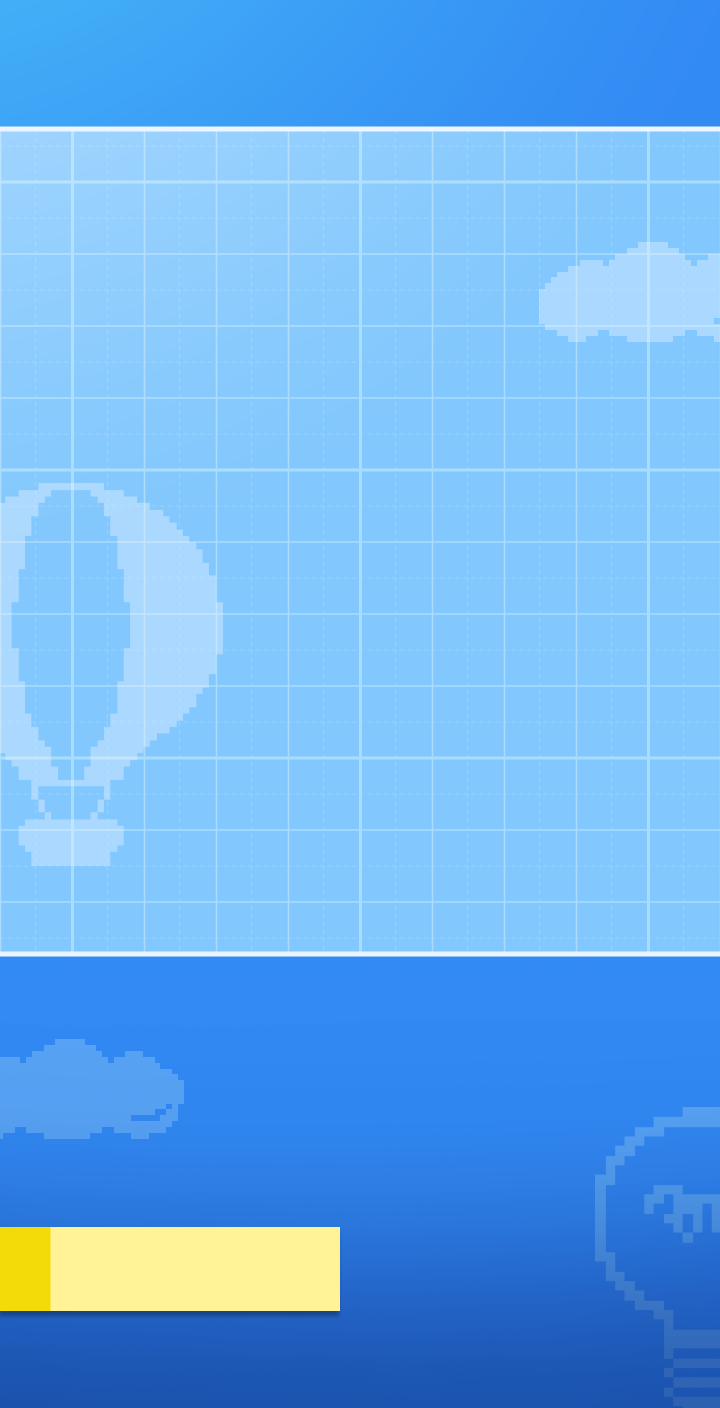
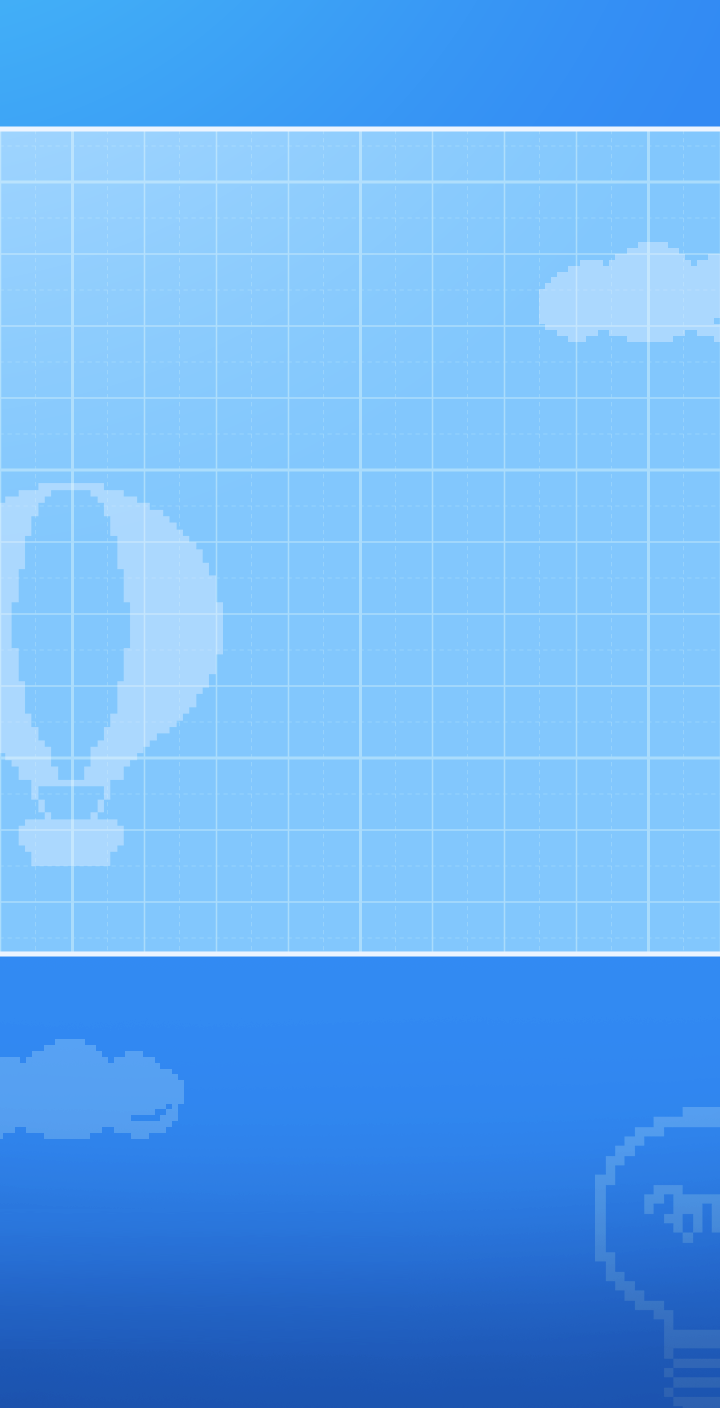
ゲーム画面開発途中

Changed region(s): [[0.0, 0.8438, 0.4889, 0.9375]]

diff --git a/src/Machigai/GameBundle/Resources/public/js/game/src/BaseLayer.js b/src/Machigai/GameBundle/Resources/public/js/game/src/BaseLayer.js
@@ -75,10 +75,10 @@ var BaseLayer = cc.Layer.extend({
             this.clock = this.playInfo.clock;
             this.addChild(this.clock,15);
 
-            this.slider = new Slider(1.0, 3.0);
-            this.addChild(this.slider,18);
+//            this.slider = new Slider(1.0, 3.0);
+//            this.addChild(this.slider,18);
 
-            this.initMenu();
+//			this.initMenu();
 
 			var thr = this.HEIGHT - this.getContentSize().height;
 			this.setPositionY(-thr);
@@ -86,7 +86,22 @@ var BaseLayer = cc.Layer.extend({
             bRet = true;
 
 			// マーキーの表示
+/*			
 			this.dispTitle();
+*/
+
+			// メニューボタン
+			var mainMenu = cc.MenuItemImage.create(
+				bd+"res/game_scene/button/button_game_link_url.png",
+				bd+"res/game_scene/button/button_game_link_url.png",
+				this.menuCallBack.bind(this)
+			);
+			mainMenu.name = "MAIN_MENU";
+			mainMenu.setPosition(650, this.MACHIGAI_Y - 25);
+			this.menu = mainMenu;
+			var menu = cc.Menu.create([mainMenu]);
+			menu.setPosition(0,0);
+			this.addChild(menu);
         }
         return bRet;
     },
@@ -133,69 +148,7 @@ var BaseLayer = cc.Layer.extend({
         this.stars = new Stars(self,this.playInfo.MACHIGAI_LIMIT);
         this.hearts = new Hearts(self, this.playInfo.FAIL_LIMIT);
     },
-    initMenu:function(){
-        var popupHint = cc.MenuItemImage.create(
-            bd+"res/game_scene/button/game_icon_hint.png",
-            bd+"res/game_scene/button/game_icon_hint.png",
-            this.menuCallBack.bind(this)
-        );
-//        popupHint.setPosition(506, 50);
-        popupHint.setPosition(185, 259);
-		popupHint.setDisabledImage(
-				cc.Sprite.create(bd+"res/game_scene/button/game_icon_hint_gray.png"));
-        popupHint.name = "HINT";
-        if( this.playInfo._playData._isHintUsed)
-            popupHint.setEnabled(false);
-		this.popupHint = popupHint;
-
-        var popupSave = cc.MenuItemImage.create(
-            bd+"res/game_scene/button/game_icon_save.png",
-            bd+"res/game_scene/button/game_icon_save.png",
-            this.menuCallBack.bind(this)
-        );
-        popupSave.setPosition(360, 259);
-        popupSave.name = "SAVE";
-
-        var popupGiveup = cc.MenuItemImage.create(
-            bd+"res/game_scene/button/game_icon_giveup.png",
-            bd+"res/game_scene/button/game_icon_giveup.png",
-            this.menuCallBack.bind(this)
-        );
-        popupGiveup.setPosition(535, 259);
-        popupGiveup.name = "GIVEUP";
-
-        var qcode = this.playInfo.QCODE;
-        var level = this.playInfo.LEVEL;
-
-        var copyrightImage = cc.Sprite.create( bd+"../../../../../sync/game/file/"+level+"/"+qcode+"/copyright");
-        copyrightImage.setPosition(436, 138);
-        copyrightImage.name = "COPYRIGHT";
-
-        var popupLinkUrl = cc.MenuItemImage.create(
-            bd+"res/game_scene/button/button_game_link_url.png",
-            bd+"res/game_scene/button/button_game_link_url.png",
-            this.menuCallBack.bind(this)
-        );
-        popupLinkUrl.setPosition(601, 138);
-        popupLinkUrl.name = "LINKURL";
-        //copyrightImageがあるかどうかでlinkURLを表示するかどうかを判断する
-        var thisbl = this;
-
-        var a = setInterval(function(){
-            var isCopyrightImage = ( copyrightImage._contentSize._height !== 0 );
-            var menu = null;
-            if (isCopyrightImage){
-                menu = cc.Menu.create([popupHint,popupSave,popupGiveup,popupLinkUrl]);
-            }else{
-                menu = cc.Menu.create([popupHint,popupSave,popupGiveup]);
-            }
-
-            menu.setPosition(0,0);
-            thisbl.addChild(menu);
-            thisbl.addChild(copyrightImage);
-        }, 500);
-    },
-    onTouchesBegan: function(touches, event){
+	onTouchesBegan: function(touches, event){
         cc.log('onTouchesBegan:' + touches.length);
         this.onTouchBegan(touches[0], event);
     },
@@ -277,16 +230,16 @@ var BaseLayer = cc.Layer.extend({
 			//cc.log("rect " + this.getRect().height);
 
 
-			var thr = this.HEIGHT - this.getContentSize().height;
-			var posy = this.getPositionY() + dy;
-
-			if( -thr < posy && posy < 0 ){
-				this.setPositionY(posy);
-			} else if (-thr >= posy ) {
-				this.setPositionY(-thr);
-			} else {
-				this.setPositionY(0);
-			}
+//			var thr = this.HEIGHT - this.getContentSize().height;
+//			var posy = this.getPositionY() + dy;
+//
+//			if( -thr < posy && posy < 0 ){
+//				this.setPositionY(posy);
+//			} else if (-thr >= posy ) {
+//				this.setPositionY(-thr);
+//			} else {
+//				this.setPositionY(0);
+//			}
 		}
         if (this.isIllustTouched === true){
             this.isIllustTouched = false;
@@ -615,55 +568,5 @@ var BaseLayer = cc.Layer.extend({
 				}
 			}
 		}
-	},
-	dispTitle: function(){
-
-		// タイトルのマーキー表示
-
-		var labelWidth = 140;
-		var labelHeight = 40;
-		var labelX = 195;
-		var labelY = 141;
-		var title  = this.playInfo.TITLE;
-		var MIN_LENGTH = 500;
-		var length = title.length * 40;
-
-		if( length < MIN_LENGTH){
-			length = MIN_LENGTH;
-		}
-
-		var tencil = cc.DrawNodeCanvas.create();
-		tencil.drawPoly(
-			[
-			cc.p(-labelWidth,labelHeight),
-			cc.p(-labelWidth,-labelHeight),
-			cc.p(labelWidth, -labelHeight),
-			cc.p(labelWidth,labelHeight)
-			],
-			new cc.Color4F(0,0,0,0),
-			0,
-			new cc.Color4F(0,0,0,0));
-
-		tencil.setPosition(cc.p(labelX,labelY));
-
-		var titleLabel = cc.LabelTTF.create(title, "Arial", 38);
-		titleLabel.setPosition(cc.p(labelX + labelWidth,labelY));
-		titleLabel.setColor(new cc.Color4F(0,0,0,0));
-		titleLabel.setHorizontalAlignment(cc.TEXT_ALIGNMENT_LEFT);
-
-		var clipNode = cc.ClippingNode.create(tencil);
-
-		clipNode.addChild(titleLabel);
-		this.addChild(clipNode);
-
-		var moveQ = length + (labelWidth * 2);
-
-        titleLabel.runAction(cc.MoveBy.create(0, cc.p(labelWidth * 2, 0)));
-
-       	var go = cc.MoveBy.create(10, cc.p(-moveQ, 0));
-        var goBack = cc.MoveBy.create(0, cc.p(moveQ, 0));
-        var seq = cc.Sequence.create(go, goBack, null);
-        titleLabel.runAction((cc.RepeatForever.create(seq) ));
-
 	}
 });

diff --git a/src/Machigai/GameBundle/Resources/public/js/game/src/PopupLayer.js b/src/Machigai/GameBundle/Resources/public/js/game/src/PopupLayer.js
@@ -44,7 +44,9 @@ var PopupLayer = cc.Layer.extend({
                 case 'LINKURL':
                     this.popupLinkUrl();
                     break;
-
+				case 'MAIN_MENU':
+					this.popupMainMenu();
+					break;
                 default:
             }
 
@@ -82,6 +84,16 @@ var PopupLayer = cc.Layer.extend({
      */
     onTouchBegan:function (touch, event) {
         cc.log("Popup.onTouchBegan");
+		
+		if(this.slider){
+			var slideicon = this.slider.slideicon;
+			var touched = touch.getLocation();
+
+			if(this.baseLayer.isInside(slideicon,touched)){
+				cc.log("Inside the slideicon area!");
+				this.canMoveSlider = true;
+			}
+		}
         return true;
     },
 
@@ -92,6 +104,13 @@ var PopupLayer = cc.Layer.extend({
      */
     onTouchMoved:function (touch, event) {
         cc.log("Popup.onTouchMoved");
+        if (this.canMoveSlider === true){
+	        cc.log("can move slider");
+            this.slider.move(touch);
+            var ratio = this.slider.getRatio();
+            this.baseLayer.illusts.scaleIllusts(ratio);
+            return true;
+        }
         return true;
     },
 
@@ -180,7 +199,141 @@ var PopupLayer = cc.Layer.extend({
         this.addChild(popup);
         popup.setPosition(360,this.getContentSize().height - 500);
     },
-    popupHint:function () {
+	popupMainMenu:function() {
+		this.playInfo.clock.interruptTimer();
+        this.state = "MAIN_MENU";
+
+        var popup = cc.Sprite.create( gsDir + "popup/mainmanu.png" );
+        this.addChild(popup);
+
+		var popupY = this.getPopupPosAndScrollTop();
+        popup.setPosition(360, popupY);
+
+		this.initMenu();
+
+		this.slider = new Slider(1.0, 3.0);
+		this.addChild(this.slider,18);
+		
+		this.dispTitle();
+
+        var cancel = this.createCancelButton(640,popupY + 170);
+		var menu = cc.Menu.create([cancel]);
+		menu.setPosition(0,0);
+		this.addChild(menu);
+	},
+    initMenu:function(){
+		
+        var popupHint = cc.MenuItemImage.create(
+            bd+"res/game_scene/button/game_icon_hint.png",
+            bd+"res/game_scene/button/game_icon_hint.png",
+            this.popupHint.bind(this)
+        );
+//        popupHint.setPosition(506, 50);
+        popupHint.setPosition(185, 849);
+		popupHint.setDisabledImage(
+				cc.Sprite.create(bd+"res/game_scene/button/game_icon_hint_gray.png"));
+        popupHint.name = "HINT";
+        if( this.playInfo._playData._isHintUsed)
+            popupHint.setEnabled(false);
+		
+        var popupSave = cc.MenuItemImage.create(
+            bd+"res/game_scene/button/game_icon_save.png",
+            bd+"res/game_scene/button/game_icon_save.png",
+            this.popupSave.bind(this)
+        );
+        popupSave.setPosition(360, 849);
+        popupSave.name = "SAVE";
+
+        var popupGiveup = cc.MenuItemImage.create(
+            bd+"res/game_scene/button/game_icon_giveup.png",
+            bd+"res/game_scene/button/game_icon_giveup.png",
+            this.popupGiveup.bind(this)
+        );
+        popupGiveup.setPosition(535, 849);
+        popupGiveup.name = "GIVEUP";
+
+        var qcode = this.playInfo.QCODE;
+        var level = this.playInfo.LEVEL;
+
+        var copyrightImage = cc.Sprite.create( bd+"../../../../../sync/game/file/"+level+"/"+qcode+"/copyright");
+        copyrightImage.setPosition(436, 138);
+        copyrightImage.name = "COPYRIGHT";
+
+        var popupLinkUrl = cc.MenuItemImage.create(
+            bd+"res/game_scene/button/button_game_link_url.png",
+            bd+"res/game_scene/button/button_game_link_url.png",
+            this.baseLayer.menuCallBack.bind(this)
+        );
+        popupLinkUrl.setPosition(601, 138);
+        popupLinkUrl.name = "LINKURL";
+        //copyrightImageがあるかどうかでlinkURLを表示するかどうかを判断する
+        var thisbl = this;
+
+        var a = setInterval(function(){
+            var isCopyrightImage = ( copyrightImage._contentSize._height !== 0 );
+            var menu = null;
+            if (isCopyrightImage){
+                menu = cc.Menu.create([popupHint,popupSave,popupGiveup,popupLinkUrl]);
+            }else{
+                menu = cc.Menu.create([popupHint,popupSave,popupGiveup]);
+            }
+
+            menu.setPosition(0,0);
+            thisbl.addChild(menu);
+            thisbl.addChild(copyrightImage);
+        }, 500);
+    },
+	dispTitle: function(){
+
+		// タイトルのマーキー表示
+
+		var labelWidth = 140;
+		var labelHeight = 40;
+		var labelX = 285;
+		var labelY = 750;
+		var title  = this.playInfo.TITLE;
+		var MIN_LENGTH = 500;
+		var length = title.length * 40;
+
+		if( length < MIN_LENGTH){
+			length = MIN_LENGTH;
+		}
+
+		var tencil = cc.DrawNodeCanvas.create();
+		tencil.drawPoly(
+			[
+			cc.p(-labelWidth,labelHeight),
+			cc.p(-labelWidth,-labelHeight),
+			cc.p(labelWidth, -labelHeight),
+			cc.p(labelWidth,labelHeight)
+			],
+			new cc.Color4F(0,0,0,0),
+			0,
+			new cc.Color4F(0,0,0,0));
+
+		tencil.setPosition(cc.p(labelX,labelY));
+
+		var titleLabel = cc.LabelTTF.create(title, "Arial", 38);
+		titleLabel.setPosition(cc.p(labelX + labelWidth,labelY));
+		titleLabel.setColor(new cc.Color4F(0,0,0,0));
+		titleLabel.setHorizontalAlignment(cc.TEXT_ALIGNMENT_LEFT);
+
+		var clipNode = cc.ClippingNode.create(tencil);
+
+		clipNode.addChild(titleLabel);
+		this.addChild(clipNode);
+
+		var moveQ = length + (labelWidth * 2);
+
+        titleLabel.runAction(cc.MoveBy.create(0, cc.p(labelWidth * 2, 0)));
+
+       	var go = cc.MoveBy.create(10, cc.p(-moveQ, 0));
+        var goBack = cc.MoveBy.create(0, cc.p(moveQ, 0));
+        var seq = cc.Sequence.create(go, goBack, null);
+        titleLabel.runAction((cc.RepeatForever.create(seq) ));
+
+	},
+	popupHint:function () {
 //        cc.unregisterTouchDelegate(this);
 		this.playInfo.clock.interruptTimer();
         this.state = "HINT";

diff --git a/src/Machigai/GameBundle/Resources/public/js/game/src/Slider.js b/src/Machigai/GameBundle/Resources/public/js/game/src/Slider.js
@@ -21,9 +21,9 @@ var Slider = cc.Layer.extend({
             var slideicon = cc.Sprite.create( gsDir + "other/game_slideicon.png" );
             this.addChild(slidebar);
             this.addChild(slideicon);
-            slidebar.setPosition(360,383);
+            slidebar.setPosition(360,939);
             slidebar.setScale(1);
-            slideicon.setPosition(140,383);
+            slideicon.setPosition(140,939);
             slideicon.setScale(1);
             this.slidebar = slidebar;
             this.slideicon = slideicon;
